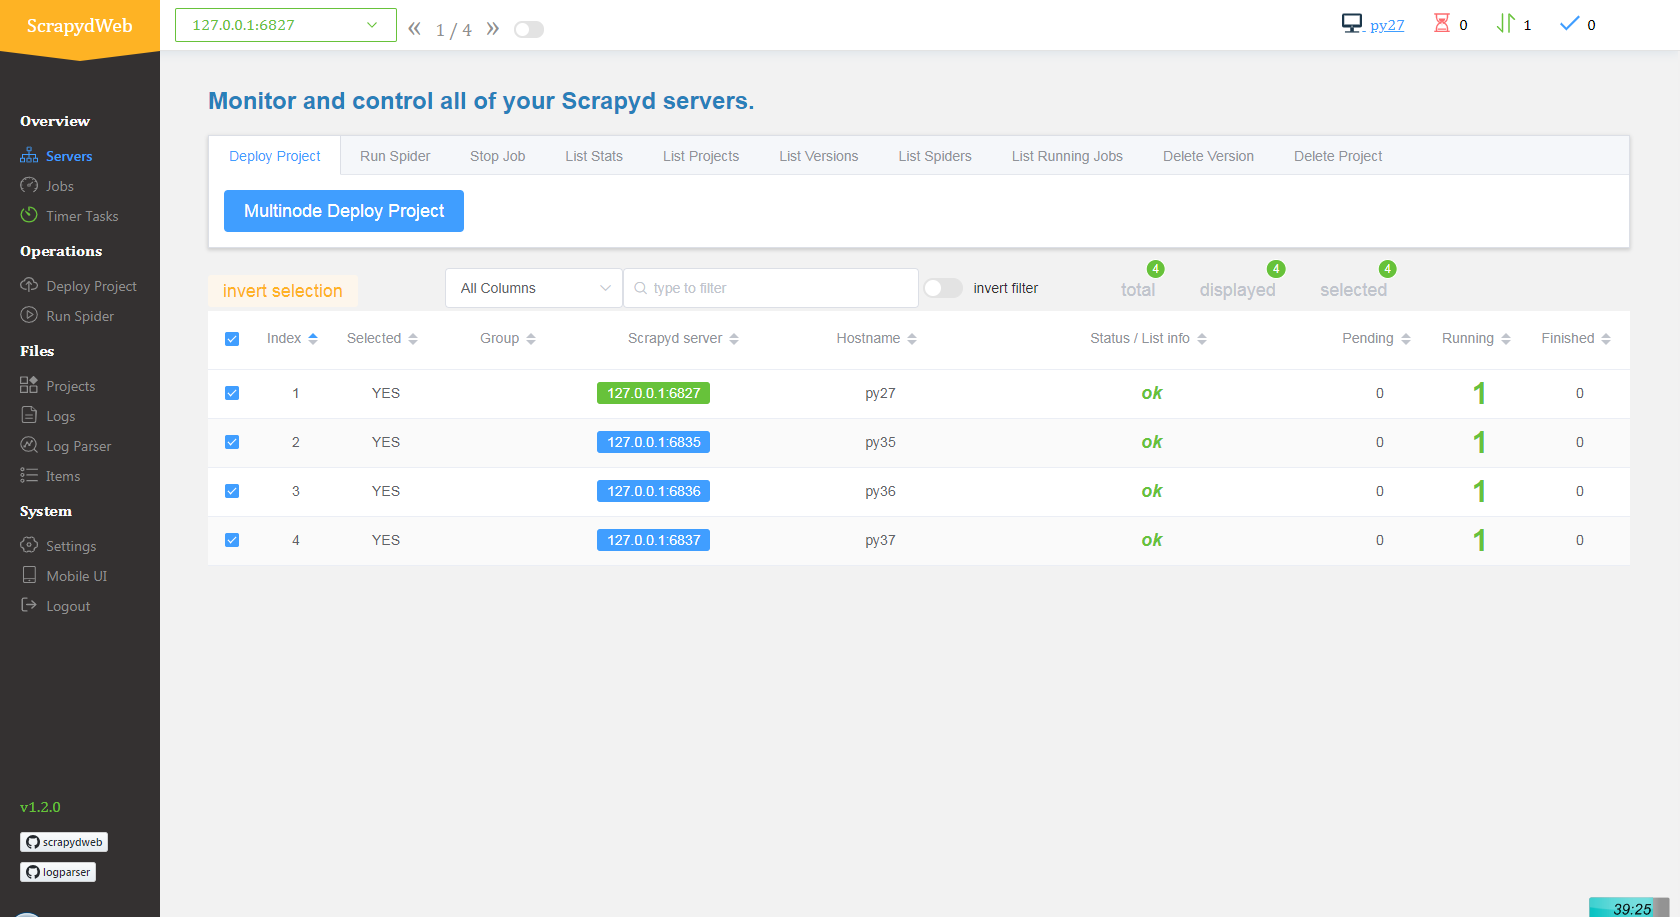
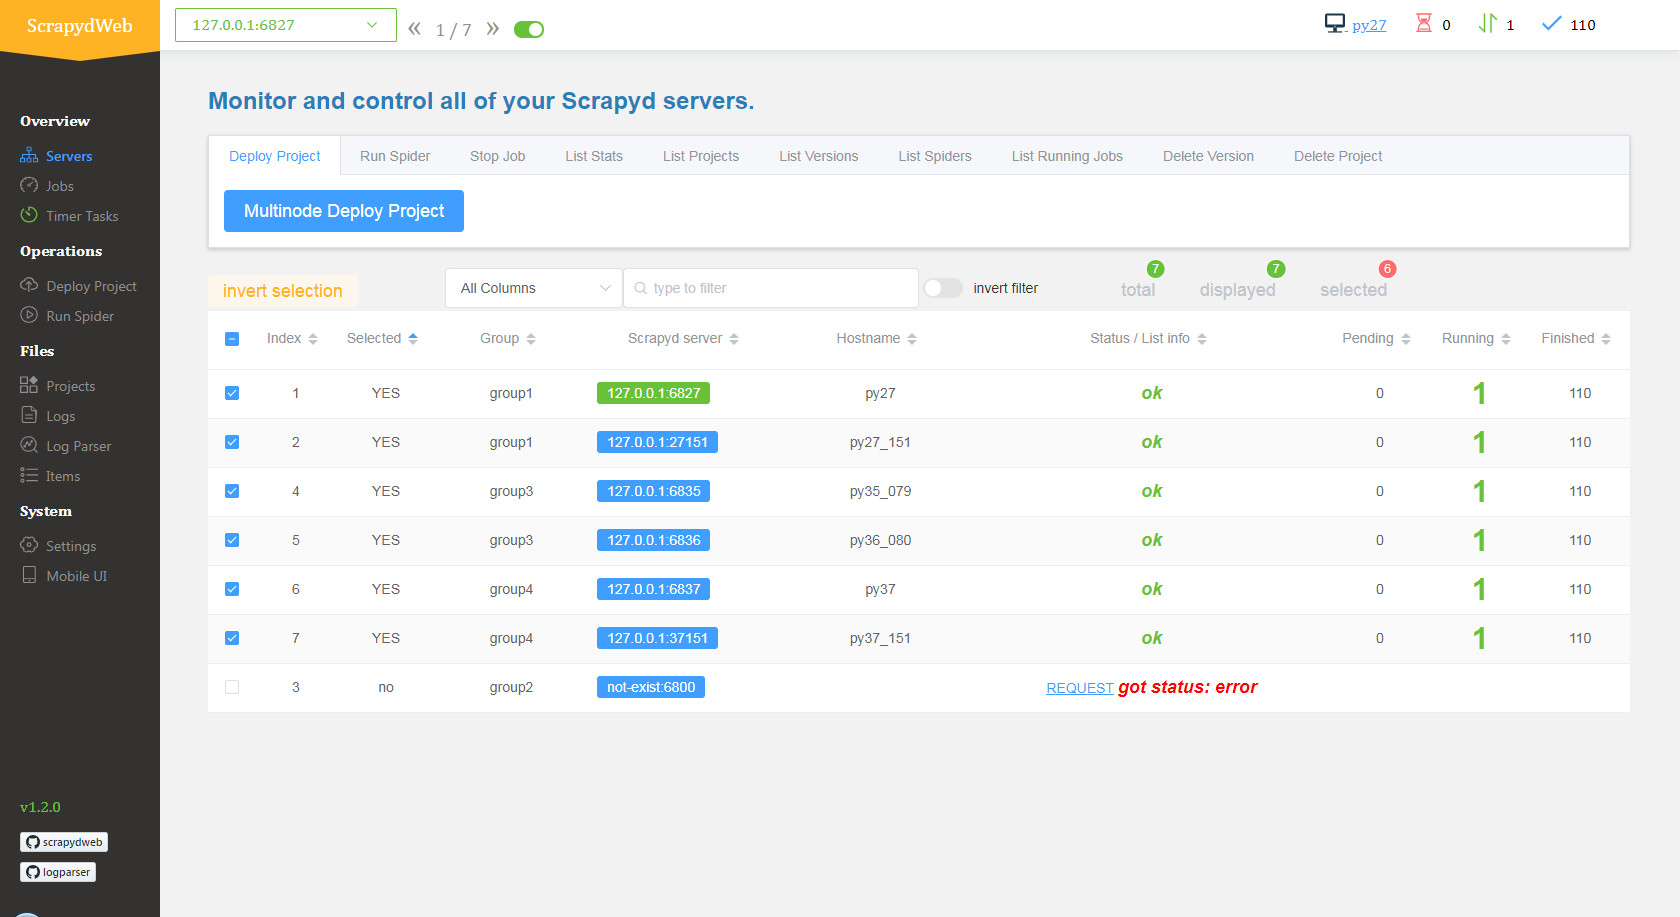
Update screenshots

diff --git a/README.md b/README.md
@@ -44,9 +44,7 @@
 
 
 ## :eyes: Preview
-- [:framed_picture: Screenshots](https://github.com/my8100/files/tree/master/scrapydweb/README.md)
-
-- [:film_strip: Gif Demo](https://github.com/my8100/files/tree/master/scrapydweb/README_GIF.md)
+[:framed_picture: Screenshots](https://github.com/my8100/files/tree/master/scrapydweb/README.md)
 
 
 ## :computer: Getting Started

diff --git a/README_CN.md b/README_CN.md
@@ -44,9 +44,7 @@
 
 
 ## :eyes: 预览
-- [:framed_picture: 界面截图](https://github.com/my8100/files/tree/master/scrapydweb/README.md)
-
-- [:film_strip: 动图演示](https://github.com/my8100/files/tree/master/scrapydweb/README_GIF.md)
+[:framed_picture: 界面截图](https://github.com/my8100/files/tree/master/scrapydweb/README.md)
 
 
 ## :computer: 上手